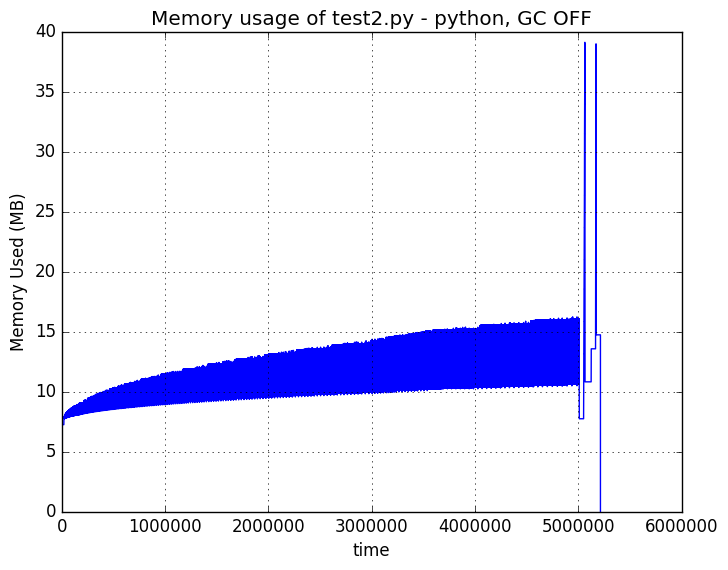
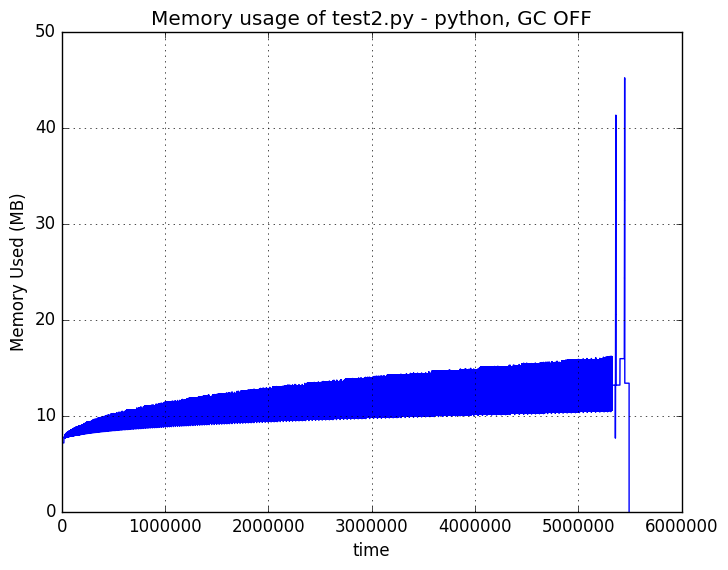
Better optimization defeat in test2.py

diff --git a/python_speed_tests/string_concat/test2.py b/python_speed_tests/string_concat/test2.py
@@ -32,63 +32,61 @@ TIMES = 500000
 
 
 def concat_naive(times):
+    global a
     a = ''
-    code = compile('a += str(n)', '<string>', 'exec')
     start = time.time()
     for n in xrange(times):
-        exec(code)
+        a += str(n)
     delta = time.time() - start
-    return delta
+    return (a, delta)
 
 # *REALLY* slow!
 def concat_mutable(times):
+    global a
     a = MutableString()
-    code = compile('a += str(n)', '<string>', 'exec')
     start = time.time()
     for n in xrange(times):
-        exec(code)
+        a += str(n)
     delta = time.time() - start
-    return delta
+    return (a, delta)
 
 def concat_array(times):
+    global a
     a = array('c')
-    code = compile('a.fromstring(str(n))', '<string>', 'exec')
     start = time.time()
     for n in xrange(times):
-        exec(code)
-#        a.fromstring(str(n))
+        a.fromstring(str(n))
     a = ''.join(a)
     delta = time.time() - start
-    return delta
+    return (a, delta)
 
 def concat_join(times):
+    global a
     a = []
-    code = compile('a.append(str(n))', '<string>', 'exec')
     start = time.time()
     for n in xrange(times):
-        exec(code)
-#        a.append(str(n))
+        a.append(str(n))
     a = ''.join(a)
     delta = time.time() - start
-    return delta
+    return (a, delta)
 
 def concat_stringio(times):
+    global a
     a = StringIO()
-    code = compile('a.write(str(n))', '<string>', 'exec')
     start = time.time()
     for n in xrange(times):
-        exec(code)
-#        a.write(str(n))
+        a.write(str(n))
     a = a.getvalue()
     delta = time.time() - start
-    return delta
+    return (a, delta)
 
 def concat_comprehension(times):
+    global a
     start = time.time()
     a = [str(n) for n in xrange(times)]
     a = ''.join(a)
     delta = time.time() - start
-    return delta
+    return (a, delta)
 
 if __name__ == '__main__':
     import sys
@@ -99,6 +97,19 @@ if __name__ == '__main__':
             print(msg)
             print('#'*60 + '\n')
         print(__doc__)
+
+    # our own handler for uncaught exceptions
+    def excepthook(type, value, tb):
+        msg = '\n' + '=' * 80
+        msg += '\nUncaught exception:\n'
+        msg += ''.join(traceback.format_exception(type, value, tb))
+        msg += '=' * 80 + '\n'
+        print(msg)
+        sys.exit(1)
+
+    # plug our handler into the python system
+    sys.excepthook = excepthook
+
 
     # look for the '-g' option
     gc_off = False
@@ -118,18 +129,30 @@ if __name__ == '__main__':
     time.sleep(0.5)
     print('Using Python %s on %s' % (platform.python_version(), platform.platform()))
     print('For %d concatenations, GC is %s:' % (TIMES, 'OFF' if gc_off else 'ON'))
-    result = concat_naive(TIMES)
+    (naive_str, result) = concat_naive(TIMES)
     print('        naive: %5.2fs' % result)
+    with open('naive_str.data', 'w') as fd:
+        fd.write(naive_str)
+    del naive_str
     time.sleep(1)
 #    result = concat_array(TIMES)
 #    print('        array: %5.2fs' % result)
 #    time.sleep(1)
-    result = concat_join(TIMES)
+    (join_str, result) = concat_join(TIMES)
     print('         join: %5.2fs' % result)
+    with open('join_str.data', 'w') as fd:
+        fd.write(join_str)
+    del join_str
     time.sleep(1)
-    result = concat_stringio(TIMES)
+    (stringio_str, result) = concat_stringio(TIMES)
     print('     stringio: %5.2fs' % result)
+    with open('stringio_str.data', 'w') as fd:
+        fd.write(stringio_str)
+    del stringio_str
     time.sleep(1)
-    result = concat_comprehension(TIMES)
+    (comprehension_str, result) = concat_comprehension(TIMES)
     print('comprehension: %5.2fs' % result)
+    with open('comprehension_str.data', 'w') as fd:
+        fd.write(comprehension_str)
+    del comprehension_str
     time.sleep(1)

diff --git a/python_speed_tests/string_concat/results.rst b/python_speed_tests/string_concat/results.rst
@@ -27,13 +27,13 @@ python running test.py (GC ON)
 +---------------+--------+
 | Method        | Time   |
 +===============+========+
-| naive         | 10.91s |
+| naive         | 11.12s |
 +---------------+--------+
-| join          | 12.41s |
+| join          | 11.83s |
 +---------------+--------+
-| stringio      | 22.09s |
+| stringio      | 20.07s |
 +---------------+--------+
-| comprehension | 11.33s |
+| comprehension | 10.38s |
 +---------------+--------+
 
 .. image:: test.py.python.log.png
@@ -47,13 +47,13 @@ python running test.py (GC OFF)
 +---------------+--------+
 | Method        | Time   |
 +===============+========+
-| naive         | 11.21s |
+| naive         | 11.50s |
 +---------------+--------+
-| join          | 12.49s |
+| join          | 12.44s |
 +---------------+--------+
-| stringio      | 21.71s |
+| stringio      | 19.29s |
 +---------------+--------+
-| comprehension | 10.47s |
+| comprehension | 10.19s |
 +---------------+--------+
 
 .. image:: test.py.python-g.log.png
@@ -67,13 +67,13 @@ python running test2.py (GC ON)
 +---------------+--------+
 | Method        | Time   |
 +===============+========+
-| naive         | 23.15s |
+| naive         | 30.18s |
 +---------------+--------+
-| join          |  0.31s |
+| join          |  0.15s |
 +---------------+--------+
-| stringio      |  0.42s |
+| stringio      |  0.17s |
 +---------------+--------+
-| comprehension |  0.12s |
+| comprehension |  0.09s |
 +---------------+--------+
 
 .. image:: test2.py.python.log.png
@@ -87,13 +87,13 @@ python running test2.py (GC OFF)
 +---------------+--------+
 | Method        | Time   |
 +===============+========+
-| naive         | 37.25s |
+| naive         | 47.83s |
 +---------------+--------+
-| join          |  0.30s |
+| join          |  0.15s |
 +---------------+--------+
-| stringio      |  0.42s |
+| stringio      |  0.21s |
 +---------------+--------+
-| comprehension |  0.12s |
+| comprehension |  0.09s |
 +---------------+--------+
 
 .. image:: test2.py.python-g.log.png
@@ -107,13 +107,13 @@ python3 running test.py (GC ON)
 +---------------+--------+
 | Method        | Time   |
 +===============+========+
-| naive         | 13.27s |
+| naive         | 14.26s |
 +---------------+--------+
-| join          | 17.80s |
+| join          | 19.23s |
 +---------------+--------+
-| stringio      | 15.10s |
+| stringio      | 16.78s |
 +---------------+--------+
-| comprehension | 11.53s |
+| comprehension | 13.93s |
 +---------------+--------+
 
 .. image:: test.py.python3.log.png
@@ -127,13 +127,13 @@ python3 running test.py (GC OFF)
 +---------------+--------+
 | Method        | Time   |
 +===============+========+
-| naive         | 13.25s |
+| naive         | 14.34s |
 +---------------+--------+
-| join          | 19.00s |
+| join          | 19.53s |
 +---------------+--------+
-| stringio      | 15.99s |
+| stringio      | 16.77s |
 +---------------+--------+
-| comprehension | 12.54s |
+| comprehension | 13.48s |
 +---------------+--------+
 
 .. image:: test.py.python3-g.log.png
@@ -147,13 +147,13 @@ python3 running test2.py (GC ON)
 +---------------+--------+
 | Method        | Time   |
 +===============+========+
-| naive         |  0.26s |
+| naive         | 44.88s |
 +---------------+--------+
-| join          |  0.29s |
+| join          |  0.17s |
 +---------------+--------+
-| stringio      |  0.30s |
+| stringio      |  0.17s |
 +---------------+--------+
-| comprehension |  0.10s |
+| comprehension |  0.14s |
 +---------------+--------+
 
 .. image:: test2.py.python3.log.png
@@ -167,13 +167,13 @@ python3 running test2.py (GC OFF)
 +---------------+--------+
 | Method        | Time   |
 +===============+========+
-| naive         |  0.27s |
+| naive         | 33.53s |
 +---------------+--------+
-| join          |  0.29s |
+| join          |  0.17s |
 +---------------+--------+
-| stringio      |  0.30s |
+| stringio      |  0.17s |
 +---------------+--------+
-| comprehension |  0.10s |
+| comprehension |  0.14s |
 +---------------+--------+
 
 .. image:: test2.py.python3-g.log.png

diff --git a/python_speed_tests/string_concat/README.rst b/python_speed_tests/string_concat/README.rst
@@ -30,10 +30,17 @@ The general method used in **test.py** is a tight loop over a large range
 appending a numeric string.  This was tried with both python2 and python3
 as well as with the garbage collector enabled and disabled.
 
-In addition, the test code in **run.sh** runs a separate thread that monitors
-memory usage of the program.
+The code in **test2.py** attempts to defeat the python interpreters *inlining*
+of string concatenation.  It appears to be enough to declare the variable
+we are concatenating into as a global.
 
-Results are automatically generated in **results.rst**.
+In addition, the test code in **run.sh** runs a separate thread that monitors
+memory usage of the programs.
+
+Results are automatically generated into **results.rst**.
+
+The real surprise is in the memory used by each concatenation method.  The
+memory results for python3 are unexpected, and this is still being investigated.
 
 Old Results
 -----------
